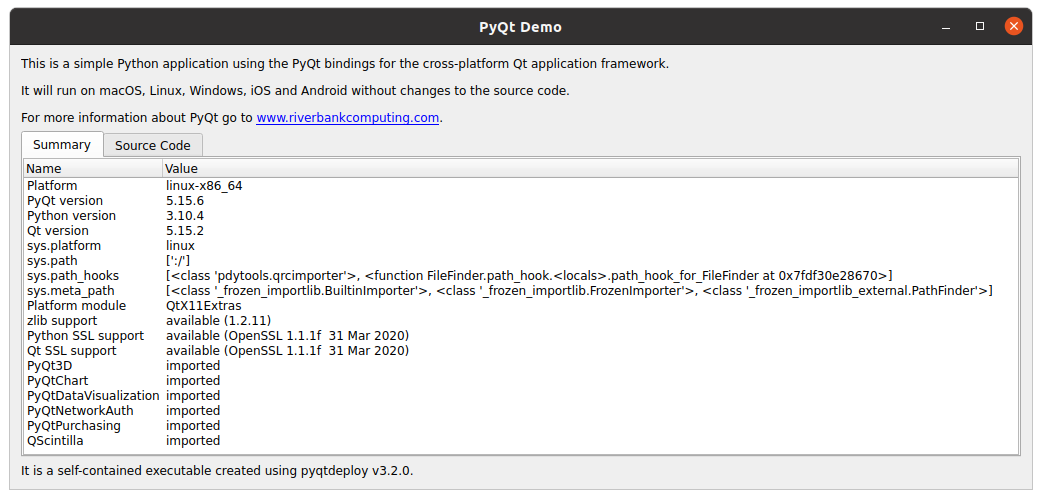
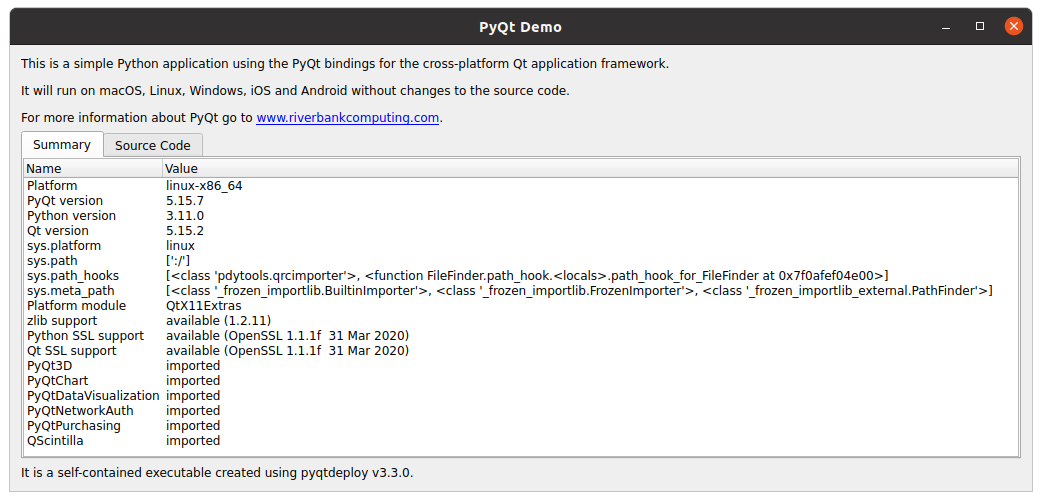
Updated the demo screenshot for Linux.

Changed region(s): [[0.0307, 0.1202, 0.9827, 0.9018]]

diff --git a/doc/demo.rst b/doc/demo.rst
@@ -123,7 +123,7 @@ Linux
 .. image:: /images/pyqt-demo-linux-64.png
     :align: center
 
-**Host platform used:** Ubuntu 20.04.4 LTS
+**Host platform used:** Ubuntu 20.04.5 LTS
 
 **Development tools used:** gcc v9.4.0
 
